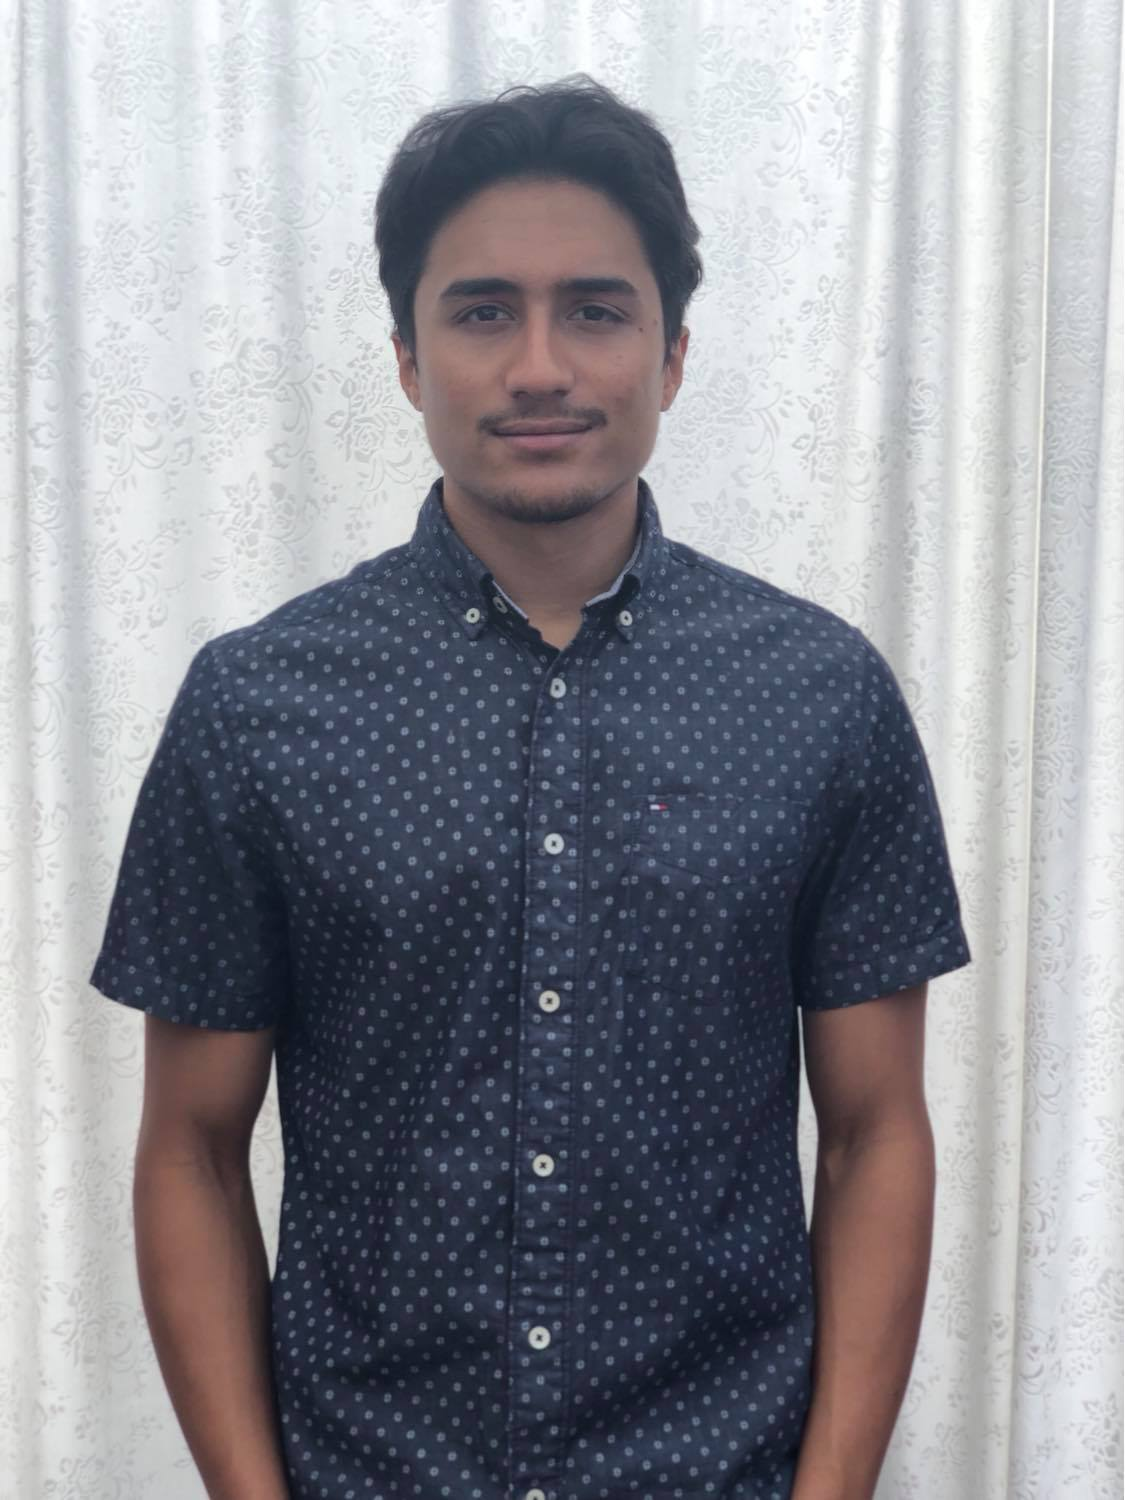
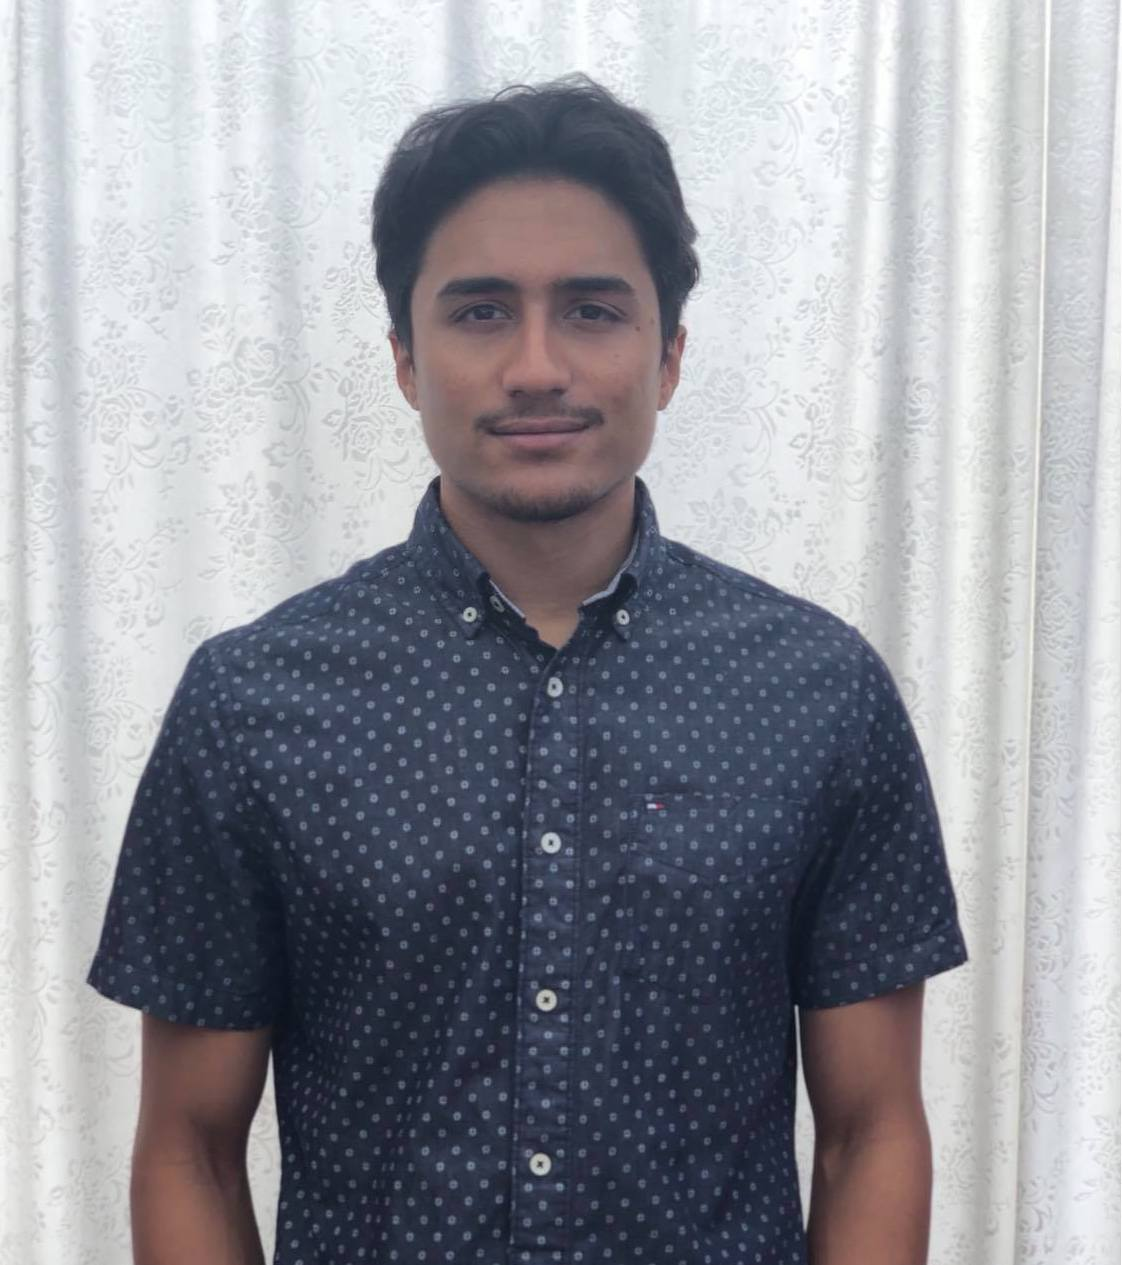
about me section

diff --git a/client/src/pages/home/Home.jsx b/client/src/pages/home/Home.jsx
@@ -66,7 +66,7 @@ function Home() {
         <h2>About Me</h2>
         <div className='about'>
           <img src={me} alt="About me" />
-          <p></p>
+          <p>I am a full stack web developer with an undergrad in Kinesiology. I pursued Kinesiology for my bachelor’s degree because of an innate drive to empower others to experience the physical, social, and mental wellness benefits associated with healthy living. When I started programming because I was very invested in exploring how technology enables and progresses healthcare. My purpose is to utilize my knowledge on important topics such as health, wellness, and performance psychology to write software that strives to make a difference and improve the lives of users. I personally utilize all the resources shared on Insula Health.</p>
         </div>
       </div>
     </div>

diff --git a/client/src/pages/home/home.css b/client/src/pages/home/home.css
@@ -31,7 +31,7 @@
 
 /* 3 wellness pillars*/ 
 
-.home-pillars h2 {
+h2 {
     font-family: 'Kanit', sans-serif;
     font-size: 50px;
     margin: 60px;
@@ -44,5 +44,25 @@
 
 .pillars-text {
     font-family: 'Fira Sans', sans-serif;
+    font-size: 17px;
+}
+
+/* about me */
+
+.about {
+    display: flex;
+    align-items: center;
+    justify-content: space-evenly;
+}
+
+.about img {
+    height: 500px;
+    width: 500px;
+    border-radius: 50%;
+    object-fit: cover;
+}
+
+.about p {
+    width: 50%;
     font-size: 17px;
 }

diff --git a/client/src/index.css b/client/src/index.css
@@ -1,6 +1,7 @@
 body {
   margin: 0;
   font-family: 'Fira Sans', sans-serif;
+  color: #000000;
   -webkit-font-smoothing: antialiased;
   -moz-osx-font-smoothing: grayscale;
   background-color: #CEE5D0;
